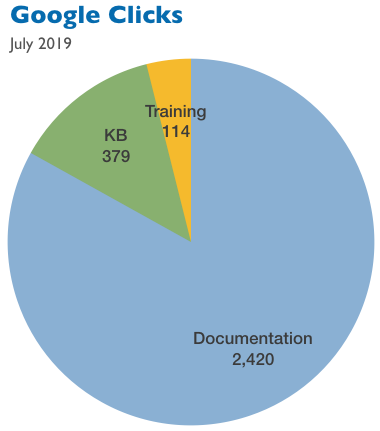
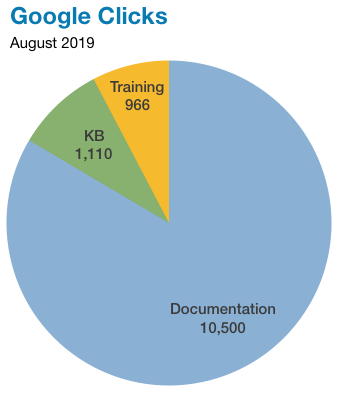
Organizational changes and additions to Training section.

diff --git a/galeracluster/source/training/videos/index.rst b/galeracluster/source/training/videos/index.rst
@@ -46,37 +46,10 @@ Codership Training Videos
 This section is for training videos on Galera Cluster and related software. At this point, they're primarily screencasts from presentations given at various conferences. We intend to add more screencasts, but made in a controlled enviroment, focusing on one aspect of Galera Cluster or related software.
 
 
-.. rst-class:: rubric-1 list-sub-header
-.. rubric:: :doc:`aws-galera-cluster`
+.. rst-class:: rubric-1
+.. rubric:: Beginner Level
 
-.. rst-class:: list-stats
-
-   Length: 52 minutes; Presenter: Russell J.T. Dyer; Date: July 12, 2019
-
-   This training video explains how to use Amazon Web Services (AWS) to create virtual servers to be used as a Galera Cluster. It will explain how to create and configure AWS, as well as how to install and configure the database and Galera software on each node. It'll end by showing you how to start the cluster.
-
-
-.. rst-class:: rubric-1 list-sub-header
-.. rubric:: :doc:`high-availability-with-galera-cluster`
-
-.. rst-class:: list-stats
-
-   Length: 60 minutes; Presenter: Colin Charles; Date: April 10, 2019
-
-This video is of Colin Charles speaking about the MySQL Server High Availability landscape and how Galera Cluster fits into it.
-
-
-.. rst-class:: rubric-1 list-sub-header
-.. rubric:: :doc:`ddl-schema-upgrades`
-
-.. rst-class:: list-stats
-
-   Length: 52 minutes; Presenter: Philip Stoev; Date: February 22, 2017
-
-This a presentation by Sakari Keskitalo, C.O.O. of Codership and Philip Stoev speaking about the best practices for DDL and Schema Upgrades.
-
-
-.. rst-class:: rubric-1 list-sub-header
+.. rst-class:: rubric-2 list-sub-header
 .. rubric:: :doc:`galera-intro`
 
 .. rst-class:: list-stats
@@ -86,7 +59,17 @@ This a presentation by Sakari Keskitalo, C.O.O. of Codership and Philip Stoev sp
 This video presents Galera Cluster:  how it works and the benefits to organizations using it.
 
 
-.. rst-class:: rubric-1 list-sub-header
+.. rst-class:: rubric-2 list-sub-header
+.. rubric:: :doc:`aws-galera-cluster`
+
+.. rst-class:: list-stats
+
+   Length: 52 minutes; Presenter: Russell J.T. Dyer; Date: July 12, 2019
+
+This training video explains how to use Amazon Web Services (AWS) to create virtual servers to be used as a Galera Cluster. It will explain how to create and configure AWS, as well as how to install and configure the database and Galera software on each node. It'll end by showing you how to start the cluster.
+
+
+.. rst-class:: rubric-2 list-sub-header
 .. rubric:: :doc:`galera-installation-quick-start`
 
 .. rst-class:: list-stats
@@ -96,27 +79,7 @@ This video presents Galera Cluster:  how it works and the benefits to organizati
 This video describes how to get started with Galera Cluster and build a functional multi-master cluster.
 
 
-.. rst-class:: rubric-1 list-sub-header
-.. rubric:: :doc:`migrating-master-slave-to-multi-master`
-
-.. rst-class:: list-stats
-
-   Length: 36 minutes; Presenter: Philip Stoev; Date: April 13, 2016
-
-This video provides the practical aspects of migrating a database setup based on traditional asynchronous replication to multi-master Galera Cluster.
-
-
-.. rst-class:: rubric-1 list-sub-header
-.. rubric:: :doc:`geo-distributed-galera-cluster`
-
-.. rst-class:: list-stats
-
-   Length: 56 minutes; Presenter: Philip Stoev; Date: June 10, 2016
-
-This video presents the advantages of having a geo-distributed database cluster and how to create one using Galera Cluster for MySQL.
-
-
-.. rst-class:: rubric-1 list-sub-header
+.. rst-class:: rubric-2 list-sub-header
 .. rubric:: :doc:`galera-dba-devops`
 
 .. rst-class:: list-stats
@@ -126,7 +89,66 @@ This video presents the advantages of having a geo-distributed database cluster 
 This video presents the best practices related to Galera Cluster by DBAs and Developers.
 
 
-.. rst-class:: rubric-1 list-sub-header
+
+.. rst-class:: rubric-1
+.. rubric:: Intermediate Level
+
+.. rst-class:: rubric-2 list-sub-header
+.. rubric:: :doc:`high-availability-with-galera-cluster`
+
+.. rst-class:: list-stats
+
+   Length: 60 minutes; Presenter: Colin Charles; Date: April 10, 2019
+
+This video is of Colin Charles speaking about the MySQL Server High Availability landscape and how Galera Cluster fits into it.
+
+
+.. rst-class:: rubric-2 list-sub-header
+.. rubric:: :doc:`ddl-schema-upgrades`
+
+.. rst-class:: list-stats
+
+   Length: 52 minutes; Presenter: Philip Stoev; Date: February 22, 2017
+
+This a presentation by Sakari Keskitalo, C.O.O. of Codership and Philip Stoev speaking about the best practices for DDL and Schema Upgrades.
+
+
+
+
+.. rst-class:: rubric-1
+.. rubric:: Special Topics
+
+.. rst-class:: rubric-2 list-sub-header
+.. rubric:: :doc:`aws-galera-cluster`
+
+.. rst-class:: list-stats
+
+   Length: 52 minutes; Presenter: Russell J.T. Dyer; Date: July 12, 2019
+
+This training video explains how to use Amazon Web Services (AWS) to create virtual servers to be used as a Galera Cluster. It will explain how to create and configure AWS, as well as how to install and configure the database and Galera software on each node. It'll end by showing you how to start the cluster.
+
+
+.. rst-class:: rubric-2 list-sub-header
+.. rubric:: :doc:`galera-monitoring`
+
+.. rst-class:: list-stats
+
+   Length: 52 minutes; Presenter: Russell J.T. Dyer; Date: September 15, 2019
+
+This training video explains how to monitor a Galera Cluster, utilizing the Galera specific status variables, as well as employing scripts for logging status information.
+
+
+.. rst-class:: rubric-2 list-sub-header
+.. rubric:: :doc:`geo-distributed-galera-cluster`
+
+.. rst-class:: list-stats
+
+   Length: 56 minutes; Presenter: Philip Stoev; Date: June 10, 2016
+
+This video presents the advantages of having a geo-distributed database cluster and how to create one using Galera Cluster for MySQL.
+
+
+.. rst-class:: rubric-2 list-sub-header
 .. rubric:: :doc:`multi-master-galera-advantages`
 
 .. rst-class:: list-stats
@@ -134,6 +156,16 @@ This video presents the best practices related to Galera Cluster by DBAs and Dev
    Length: 47 minutes; Presenter: Philip Stoev; Date: December 14, 2016
 
 This presentation discusses various aspects of using a multi-master topology of Galera Cluster.
+
+
+.. rst-class:: rubric-2 list-sub-header
+.. rubric:: :doc:`migrating-master-slave-to-multi-master`
+
+.. rst-class:: list-stats
+
+   Length: 36 minutes; Presenter: Philip Stoev; Date: April 13, 2016
+
+This video provides the practical aspects of migrating a database setup based on traditional asynchronous replication to multi-master Galera Cluster.
 
 
 .. toctree::

diff --git a/galeracluster/source/editors/training-videos.rst b/galeracluster/source/editors/training-videos.rst
@@ -47,8 +47,8 @@ Below is a list of training vides planned for the next few months. They cover es
    :class: doc-options library-small
    :widths: 50, 50
 
-   ":doc:`Introduction to Galera Cluster <../training/videos/galera-intro>` :raw-html:`<small>published 2 march 2016</small>` Overview of Galera and minimal components. Although conceptual, not practical, it doesn't delve deep.", "**Installing Galera Cluster** :raw-html:`<small>scheduled 5 aug. 2019</small>` Shows the basics of how to install the Galera Cluster with three nodes."
-   "**MySQL Replication vs. Galera Cluster** :raw-html:`<small>scheduled 19 aug. 2019</small>` Demonstrates how to configure and use standard replication and compares that to a Galera Cluster.", ""
+   ":doc:`Introduction to Galera Cluster <../training/videos/galera-intro>` :raw-html:`<small>published 2 march 2016</small>` Overview of Galera and minimal components. Although conceptual, not practical, it doesn't delve deep.", "**Installing Galera Cluster with MySQL** :raw-html:`<small>scheduled 25 sept. 2019</small>` Shows the basics of how to install the Galera Cluster with MySQL on three nodes."
+   "**MySQL Replication vs. Galera Cluster** :raw-html:`<small>scheduled 15 oct. 2019</small>` Demonstrates how to configure and use standard replication and compares that to a Galera Cluster.", "**Installing Galera Cluster with MariaDB** :raw-html:`<small>scheduled 25 sept. 2019</small>` Shows the basics of how to install the Galera Cluster with MariaDB on three nodes."
 
 
 .. rst-class:: rubric-1 rubric-separated
@@ -69,7 +69,8 @@ Below is a list of training vides planned for the next few months. They cover es
    :class: doc-options library-small
    :widths: 50, 50
 
-   "**Load Balancing a Galera Cluster** :raw-html:`<small>scheduled 15 sept. 2019</small>` How to install and configure a load balancer (e.g., MaxScale) to balance traffic among nodes.", ":doc:`Monitoring a Cluster <../training/videos/galera-monitoring>` :raw-html:`<small>published 5 aug. 2019</small>` Present status variables used for monitoring, including ``wsrep_provider_options`` and a bash simple script."
+   ":doc:`Galera Cluster on AWS <../training/videos/aws-galera-cluster>` :raw-html:`<small>scheduled 15 july 2019</small>` Shows the basics of how to set up server instances on Amazon's AWS for a Galera Cluster with MySQL or MariaDB.", ":doc:`Monitoring a Cluster <../training/videos/galera-monitoring>` :raw-html:`<small>published 15 sept. 2019</small>` Present status variables used for monitoring, including ``wsrep_provider_options`` and a bash simple script."
+   "**Load Balancing a Galera Cluster** :raw-html:`<small>scheduled 15 nov. 2019</small>` How to install and configure a load balancer (e.g., HA Proxy) to balance traffic among nodes.", ""
 
 
 .. |br| raw:: html

diff --git a/galeracluster/source/editors/index.rst b/galeracluster/source/editors/index.rst
@@ -69,7 +69,7 @@ On the right are two pie charts representing data from Google, depicting the per
 
 .. rst-class:: list-stats
 
-   Content: 69 Documents, 242 Pages, 70,023 Words; Google Traffic, July: 29,900 Impressions, 2,420 Clicks
+   Content: 69 Documents, 242 Pages, 70,023 Words; Google Traffic, August: 156,000 Impressions, 10,500 Clicks
 
 .. rst-class:: list-abstract sub-list-abstract
 
@@ -81,7 +81,7 @@ On the right are two pie charts representing data from Google, depicting the per
 
 .. rst-class:: list-stats
 
-   Content: 21 Articles, 15 pages, 6,547 Words; Google Traffic, July: 3,300 Impressions, 379 Clicks
+   Content: 21 Articles, 15 pages, 6,547 Words; Google Traffic, August: 9,640 Impressions, 1,110 Clicks
 
 .. rst-class:: list-abstract sub-list-abstract
 
@@ -93,7 +93,7 @@ On the right are two pie charts representing data from Google, depicting the per
 
 .. rst-class:: list-stats
 
-   Content: 22 Articles, 132 Pages, 59,430 Words; Google Traffic, July: 949 Impressions, 114 Clicks
+   Content: 22 Articles, 132 Pages, 59,430 Words; Google Traffic, August: 9,750 Impressions, 957 Clicks
 
 .. rst-class:: list-abstract sub-list-abstract
 
@@ -105,7 +105,7 @@ On the right are two pie charts representing data from Google, depicting the per
 
 .. rst-class:: list-stats
 
-   Videos: 10; Google Traffic, July: 292 Impressions, 1 Click
+   Videos: 10; Google Traffic, August: 2,090 Impressions, 8 Click
 
 .. rst-class:: list-abstract sub-list-abstract
 
@@ -117,7 +117,7 @@ On the right are two pie charts representing data from Google, depicting the per
 
 .. rst-class:: list-stats
 
-   Content: 35 Questions, 4,189 Words; Google Traffic, July: 0 Impressions, 0 Clicks
+   Content: 35 Questions, 4,189 Words; Google Traffic, July: 991 Impressions, 97 Clicks
 
 .. rst-class:: list-abstract sub-list-abstract
 

diff --git a/galeracluster/source/documentation/glb.rst b/galeracluster/source/documentation/glb.rst
@@ -56,7 +56,7 @@ Galera Load Balancer
 Galera Load Balancer provides simple TCP connection balancing. It was developed with scalability and performance in mind.  It draws on Pen for inspiration, but its functionality is limited to only balancing TCP connections.  It provides several features:
 
 - Support for configuring back-end servers at runtime.
-- Support for draning servers.
+- Support for draining servers.
 - Support for the epoll API for routing performance.
 - Support for multithreaded operations.
 - Optional watchdog module to monitor destinations and adjust the routing table.
@@ -66,7 +66,7 @@ Galera Load Balancer provides simple TCP connection balancing. It was developed 
 .. rst-class:: rubric-1
 .. rubric:: Installation
 
-Unlike Galera Cluster, there is no binary installation available for Galera Load Balancer.  Installing it on your system will requires you to build it from the source files.  They're available on GitHub at `glb <https://github.com/codership/glb>`_.
+Unlike Galera Cluster, there is no binary installation available for Galera Load Balancer.  Installing it on your system will require you to build it from the source files.  They're available on GitHub at `glb <https://github.com/codership/glb>`_.
 
 To build Galera Load Balancer, you will need to complete a few steps.  First, from a directory convenient for source builds (e.g., ``/opt``), use the ``git`` utility to clone the GitHub repository for Galera Load Balancer. You would do this like so:
 

diff --git a/galeracluster/source/training/videos/galera-monitoring.rst b/galeracluster/source/training/videos/galera-monitoring.rst
@@ -46,11 +46,11 @@ Monitoring a Galera Cluster
 .. rst-class:: video-stats
 
 - Speaker:  Russell J.T. Dyer
-- Date:  August 5, 2019
+- Date:  September 15, 2019
 - Length of Video:  52 minutes
 
-This training video explains how to use Amazon Web Services (AWS) to create virtual servers to be used as a Galera Cluster. It will explain how to create and configure AWS, as well as how to install and configure the database and Galera software on each node. It'll end by showing you how to start the cluster.
+This training video explains how to monitor a Galera Cluster, utilizing the Galera specific status variables, as well as employing scripts for logging status information.
 
 .. raw:: html
 
-    <iframe width="820" height="547" src="https://galeracluster.com/library-media/videos/galera-on-aws.mp4" frameborder="0" allowfullscreen></iframe>
+    <iframe width="820" height="547" src="https://galeracluster.com/library-media/videos/galera-monitoring.mp4" frameborder="0" allowfullscreen></iframe>
